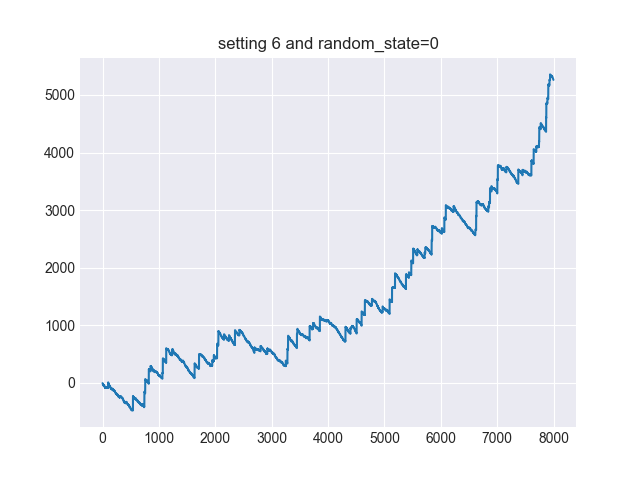
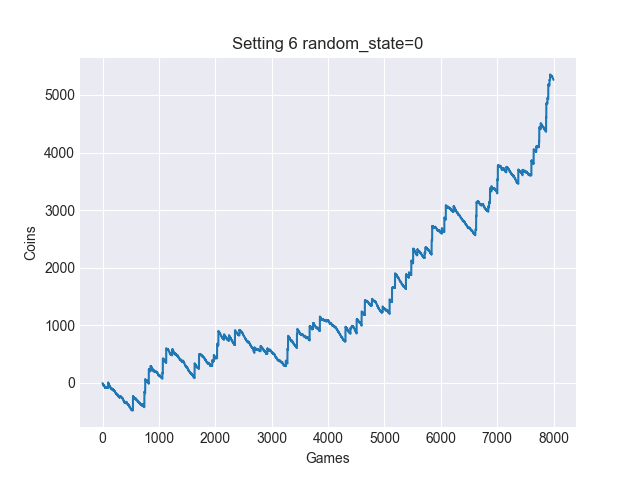
agaw

Changed region(s): [[0.3438, 0.0625, 0.6875, 0.125], [0.4688, 0.9375, 0.5625, 0.9688], [0.0312, 0.4688, 0.0625, 0.5625]]

diff --git a/cl/im.py b/cl/im.py
@@ -48,31 +48,33 @@ xk = np.arange(pk.shape[1])
 pk_ = pk[setting-1]
 im = stats.rv_discrete(name='im', values=(xk, pk_))
 
-plt.style.use('seaborn-v0_8-darkgrid')
-fig, ax = plt.subplots()
-ax.plot(xk, im.pmf(xk), 'co', ms=12)
-ax.vlines(xk, 0, im.pmf(xk), colors='c', lw=4)
-
-ax.set_title(f'Im pmf (Setting {setting})')
-ax.set_yscale('log')
-labels = 'big', 'reg', 'grape', 'cherry', 'bell', 'clown', 'replay', 'lose'
-ax.set_xticks(xk, labels, rotation=90)
-# plt.show()
-
-# size = 8000
-# seed = 0
-# sample = im.rvs(size=size, random_state=seed)
-# result = [(saf - out)[x] for x in sample]
-
 # plt.style.use('seaborn-v0_8-darkgrid')
 # fig, ax = plt.subplots()
-# x = np.arange(size)
-# y = np.cumsum(result)
-# ax.plot(x, y)
-# ax.set_title(f'setting 6 and random_state={seed}')
+# ax.plot(xk, im.pmf(xk), 'co', ms=12)
+# ax.vlines(xk, 0, im.pmf(xk), colors='c', lw=4)
+
+# ax.set_title(f'Im pmf (Setting {setting})')
+# ax.set_yscale('log')
+# labels = 'big', 'reg', 'grape', 'cherry', 'bell', 'clown', 'replay', 'lose'
+# ax.set_xticks(xk, labels, rotation=90)
 # plt.show()
 
-plt.savefig('im6-pmf')
+size = 8000
+seed = 42
+sample = im.rvs(size=size, random_state=seed)
+result = [(saf - out)[x] for x in sample]
+
+plt.style.use('seaborn-v0_8-darkgrid')
+fig, ax = plt.subplots()
+x = np.arange(size)
+y = np.cumsum(result)
+ax.plot(x, y)
+ax.set_title(f'Setting 6 random_state={seed}')
+ax.set_xlabel('Games')
+ax.set_ylabel('Coins')
+plt.show()
+
+# plt.savefig('random-state-42')
 
 # exp = (pk * saf).sum(axis=1) - (pk * out).sum(axis=1)
 # print(exp.reshape(-1, 1) * 8000)
